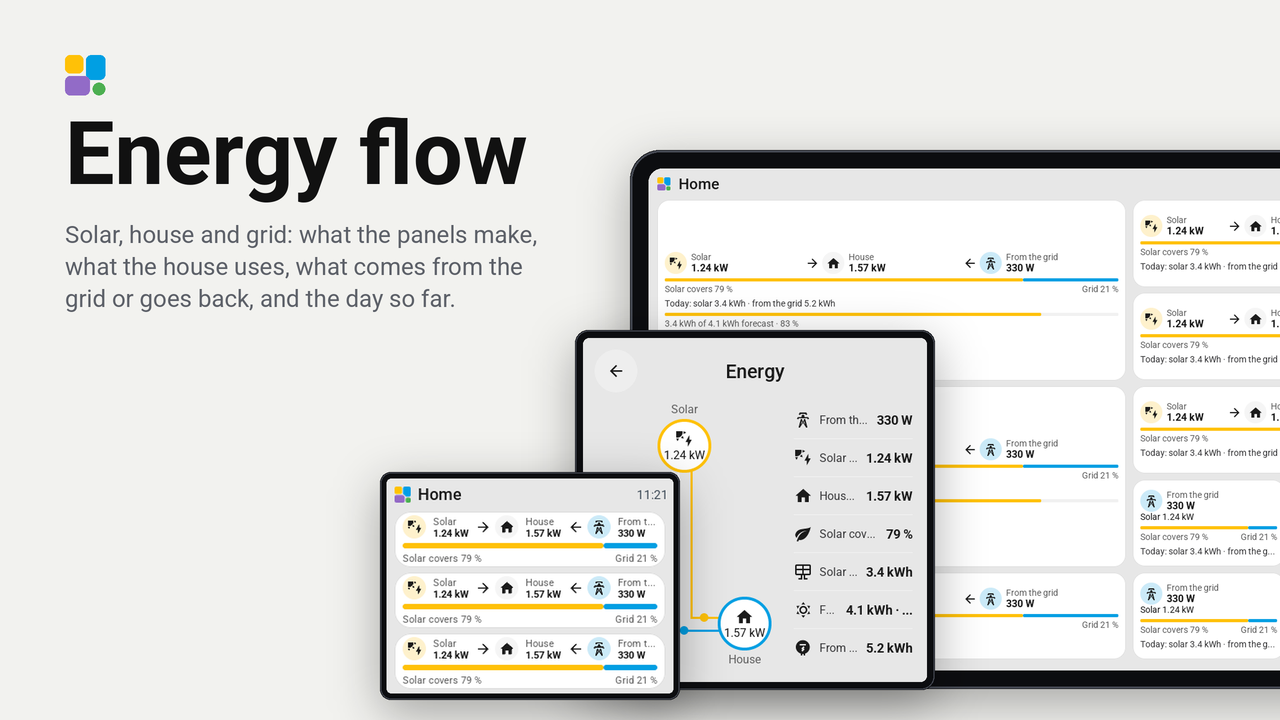
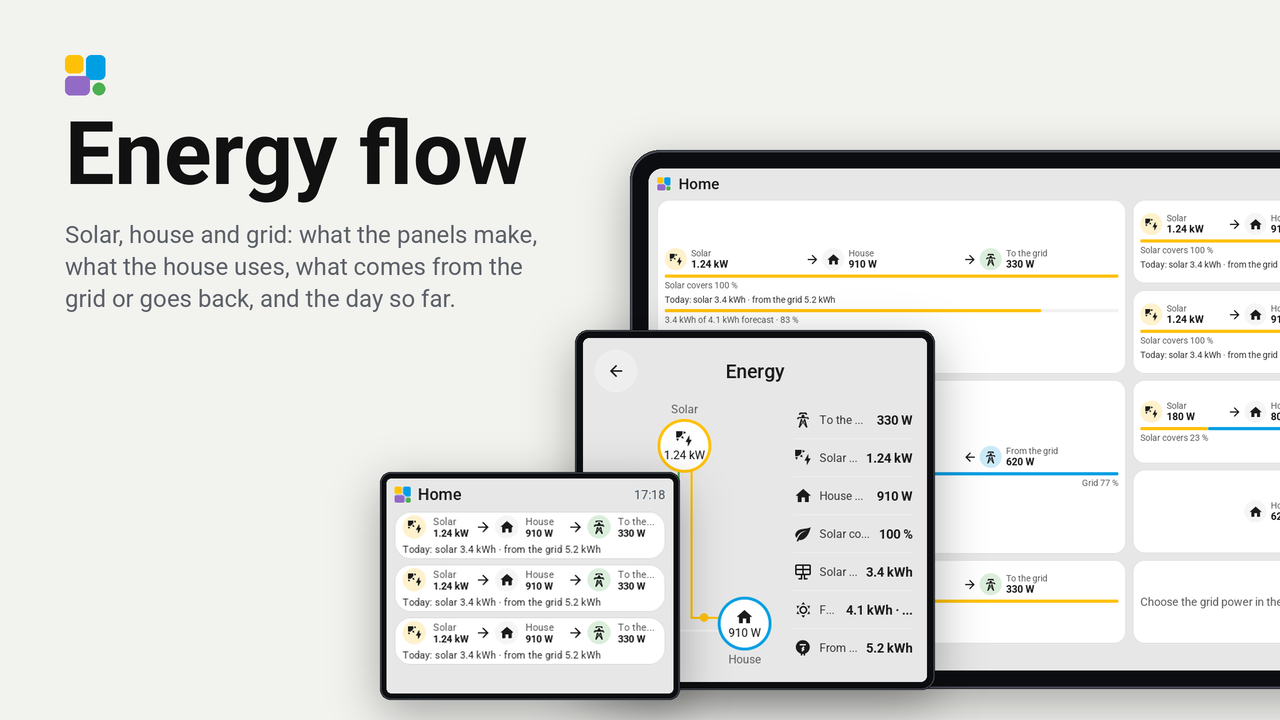
2.0.0: sensors as tile options (may stay empty, no rebuild), house power sensor, clearer notes
Fixes #1, fixes #3, fixes #6

diff --git a/components/energy_flow/energy_flow.cpp b/components/energy_flow/energy_flow.cpp
@@ -4,6 +4,7 @@
 #include <cstdio>
 #include <cstdlib>
 #include <cstring>
+#include <strings.h>
 #include <string>
 
 namespace esphome::energy_flow {
@@ -55,52 +56,84 @@ static void inside(lv_obj_t *circle, lv_obj_t *label, int w, int h, int dy = 0) 
 
 // ---- Reading the sensors ------------------------------------------------------------------------------------------
 
-static bool known(const std::string &s) { return !s.empty() && s != "unknown" && s != "unavailable" && s != "None"; }
+// The option ids, in the order of enum Source.
+static const char *const KEYS[SOURCES] = {"grid", "pv", "home", "pv_today", "coverage", "forecast", "grid_today"};
 
-float EnergyFlow::number(int index) const {
-  const text_sensor::TextSensor *s = index >= 0 && index < FIELD_COUNT ? fields_[index] : nullptr;
-  if (!s || !s->has_state() || !known(s->state)) return NAN;
+// A number of a state as Home Assistant sends it; NAN for "unknown", "unavailable" or anything else that is no number.
+static float number(const char *state) {
+  if (!state || !*state) return NAN;
   char *end = nullptr;
-  const float v = strtof(s->state.c_str(), &end);
-  return end == s->state.c_str() ? NAN : v;
+  const float v = strtof(state, &end);
+  return end == state || !std::isfinite(v) ? NAN : v;
 }
 
-const char *EnergyFlow::unit(int index) const {
-  const text_sensor::TextSensor *s = index >= 0 && index < FIELD_COUNT ? fields_[index] : nullptr;
-  return s && s->has_state() ? s->state.c_str() : "";
-}
+// A unit of energy (Wh, kWh, MWh) rather than of power.
+static bool energy_unit(const char *unit) { return strstr(unit, "Wh") || strstr(unit, "wh"); }
 
-// Power in W whatever the sensor's unit (W, kW, MW).
+// Power in W whatever the sensor's unit (W, kW, MW); NAN for a unit of energy.
 static float watts(float v, const char *unit) {
-  if (std::isnan(v)) return v;
-  if (strcmp(unit, "kW") == 0) return v * 1000.0f;
-  if (strcmp(unit, "MW") == 0) return v * 1000000.0f;
+  if (std::isnan(v) || energy_unit(unit)) return NAN;
+  if (unit[0] == 'k' || unit[0] == 'K') return v * 1000.0f;
+  if (unit[0] == 'M') return v * 1000000.0f;
   return v;
 }
 
 // Energy in kWh whatever the sensor's unit (Wh, kWh, MWh).
 static float kwh(float v, const char *unit) {
   if (std::isnan(v)) return v;
-  if (strcmp(unit, "Wh") == 0) return v / 1000.0f;
+  if (strcasecmp(unit, "Wh") == 0) return v / 1000.0f;
   if (strcmp(unit, "MWh") == 0) return v * 1000.0f;
   return v;
 }
 
-Reading EnergyFlow::read(bool invert) const {
+Values EnergyFlow::parse(JsonObjectConst data) {
+  Values out;
+  JsonObjectConst entities = data["entities"];
+  for (int i = 0; i < SOURCES; ++i) {
+    // An option nobody filled in is not there.
+    JsonObjectConst e = entities[KEYS[i]];
+    if (e.isNull()) continue;
+    const float v = number(e["state"] | "");
+    const char *unit = e["attributes"]["unit_of_measurement"] | "";
+    switch (i) {
+      case S_GRID:
+        out.grid_chosen = true;
+        out.grid_energy = energy_unit(unit);
+        out.value[i] = watts(v, unit);
+        break;
+      case S_PV:
+      case S_HOME:
+        out.value[i] = watts(v, unit);
+        break;
+      case S_COVERAGE:
+        out.value[i] = v;
+        break;
+      default:
+        out.value[i] = kwh(v, unit);
+    }
+  }
+  return out;
+}
+
+Reading EnergyFlow::read(const Values &v, bool invert) {
   Reading r;
-  r.grid = watts(number(F_GRID), unit(F_GRID_UNIT));
+  r.grid = v.value[S_GRID];
   r.have_grid = !std::isnan(r.grid);
+  r.note = r.have_grid ? nullptr : !v.grid_chosen ? "choose" : v.grid_energy ? "not_power" : "no_value";
   if (r.have_grid && invert) r.grid = -r.grid;
-  r.pv = watts(number(F_PV), unit(F_PV_UNIT));
+  r.pv = v.value[S_PV];
   if (!std::isnan(r.pv)) r.pv = std::max(0.0f, r.pv);
-  if (r.have_grid) r.home = std::max(0.0f, r.grid + (std::isnan(r.pv) ? 0.0f : r.pv));
-  r.coverage = number(F_COVERAGE);
+  // The house's own sensor where there is one: it also counts what a battery gives.
+  r.home = v.value[S_HOME];
+  if (!std::isnan(r.home)) r.home = std::max(0.0f, r.home);
+  else if (r.have_grid) r.home = std::max(0.0f, r.grid + (std::isnan(r.pv) ? 0.0f : r.pv));
+  r.coverage = v.value[S_COVERAGE];
   if (std::isnan(r.coverage) && !std::isnan(r.pv) && !std::isnan(r.home))
     r.coverage = r.home > FLOWING ? 100.0f * std::min(r.pv, r.home) / r.home : (r.pv > FLOWING ? 100.0f : 0.0f);
   if (!std::isnan(r.coverage)) r.coverage = std::max(0.0f, std::min(100.0f, r.coverage));
-  r.pv_today = kwh(number(F_PV_TODAY), unit(F_PV_TODAY_UNIT));
-  r.forecast = kwh(number(F_FORECAST), unit(F_FORECAST_UNIT));
-  r.grid_today = kwh(number(F_GRID_TODAY), unit(F_GRID_TODAY_UNIT));
+  r.pv_today = v.value[S_PV_TODAY];
+  r.forecast = v.value[S_FORECAST];
+  r.grid_today = v.value[S_GRID_TODAY];
   return r;
 }
 
@@ -218,7 +251,7 @@ class FlowView {
                           fc_track_, fc_fill_, fc_label_})
         show(o, false);
       show(note_, true);
-      ui::set_text(note_, plugin_->text("choose"));
+      ui::set_text(note_, plugin_->text(r.note));
       ui::set_color(note_, theme::MUTED);
       shown_ = -1;
       return;
@@ -475,12 +508,14 @@ class FlowTile : public tessera::Tile {
     invert_ = c.options["invert"] | false;
     view_.create(c.parent, c.width, c.height, c.options["today"] | true, false);
   }
-  void on_tick(uint32_t) override { view_.paint(plugin_->read(invert_)); }
+  void on_state(JsonObjectConst data) override { values_ = EnergyFlow::parse(data); }
+  void on_tick(uint32_t) override { view_.paint(EnergyFlow::read(values_, invert_)); }
   void on_theme() override {
     view_.on_theme();
     on_tick(0);
   }
   void on_tap() override {
+    plugin_->card_values = values_;
     plugin_->card_invert = invert_;
     tessera::open_card(plugin_->plugin_id(), "details", "", tile_);
   }
@@ -488,6 +523,7 @@ class FlowTile : public tessera::Tile {
  private:
   const EnergyFlow *plugin_;
   FlowView view_;
+  Values values_;
   int tile_ = -1;
   bool invert_ = false;
 };
@@ -513,6 +549,7 @@ class DetailsCard : public tessera::Card {
   void open(const tessera::CardContext &c) override {
     width_ = c.width;
     height_ = c.height;
+    values_ = plugin_->card_values;
     invert_ = plugin_->card_invert;
     const bool large = ui::large();
     line_w_ = std::max(2, ui::px(large ? 3 : 2));
@@ -564,12 +601,17 @@ class DetailsCard : public tessera::Card {
   }
 
   void on_tick(uint32_t) override {
-    const Reading r = plugin_->read(invert_);
-    ui::set_text(note_, r.have_grid ? "" : plugin_->text("choose"));
+    const Reading r = EnergyFlow::read(values_, invert_);
+    ui::set_text(note_, r.note ? plugin_->text(r.note) : "");
     paint_diagram(r);
     paint_list(r);
   }
 
+  // The tile it was opened from got new values.
+  void on_state(JsonObjectConst data) override {
+    values_ = EnergyFlow::parse(data);
+    on_tick(0);
+  }
   void on_theme() override { on_tick(0); }
 
  private:
@@ -768,6 +810,7 @@ class DetailsCard : public tessera::Card {
   int dot_ = 0, label_h_ = 0, value_h_ = 0, upper_y_ = 0, lower_y_ = 0, rows_shown_ = -1;
   bool show_extra_ = true;
   bool invert_ = false;
+  Values values_;
   Node nodes_[3];
   lv_obj_t *lines_[LINES]{}, *dots_[DOTS]{};
   Row rows_[MAX_ROWS];

diff --git a/components/energy_flow/energy_flow.h b/components/energy_flow/energy_flow.h
@@ -3,50 +3,50 @@
 #include <cstdint>
 #include <string>
 #include "esphome/core/component.h"
-#include "esphome/components/text_sensor/text_sensor.h"
 #include "esphome/components/smart_display/plugin_api.h"
 
 namespace esphome::energy_flow {
 
-// The values plugin.yaml reads, in the order of FIELDS in __init__.py.
-enum Field : uint8_t {
-  F_GRID, F_GRID_UNIT, F_PV, F_PV_UNIT, F_PV_TODAY, F_PV_TODAY_UNIT, F_COVERAGE, F_FORECAST, F_FORECAST_UNIT,
-  F_GRID_TODAY, F_GRID_TODAY_UNIT, FIELD_COUNT
+// The sensors a tile reads: its options of kind entity, which the app sends under `entities` with these ids.
+enum Source : uint8_t { S_GRID, S_PV, S_HOME, S_PV_TODAY, S_COVERAGE, S_FORECAST, S_GRID_TODAY, SOURCES };
+
+// What the app sent, each value in its own unit already turned into W (power), kWh (energy) or % (coverage); NAN for
+// a sensor that is not chosen or has no number.
+struct Values {
+  bool grid_chosen = false;  // a grid sensor is chosen in the tile's settings
+  bool grid_energy = false;  // ... but it counts energy (Wh, kWh), not power
+  float value[SOURCES] = {NAN, NAN, NAN, NAN, NAN, NAN, NAN};
 };
 
-// What the tile and the card show, worked out from the sensors. Power in W, energy in kWh; NAN for not known.
+// What the tile and the card show, worked out from the values. Power in W, energy in kWh; NAN for not known.
 struct Reading {
-  bool have_grid = false;  // the grid sensor has a number
-  float grid = NAN;        // + from the grid, - back to it
-  float pv = NAN;          // what the panels make now
-  float home = NAN;        // what the house uses now: grid + pv
-  float coverage = NAN;    // the share of the house's use the panels cover now, 0 to 100
+  bool have_grid = false;      // the grid sensor has a number
+  const char *note = "choose";  // without it: the text key that says why
+  float grid = NAN;            // + from the grid, - back to it
+  float pv = NAN;              // what the panels make now
+  float home = NAN;            // what the house uses now: its own sensor, else grid + pv
+  float coverage = NAN;        // the share of the house's use the panels cover now, 0 to 100
   float pv_today = NAN, forecast = NAN, grid_today = NAN;
 };
 
-// The plugin: a tile ("flow") and a card ("details"). It holds the text sensors plugin.yaml reads.
+// The plugin: a tile ("flow") and a card ("details").
 class EnergyFlow : public Component, public tessera::Plugin {
  public:
   void setup() override;
   float get_setup_priority() const override { return setup_priority::DATA; }
 
-  void set_field(int index, text_sensor::TextSensor *s) {
-    if (index >= 0 && index < FIELD_COUNT) fields_[index] = s;
-  }
+  // The values of a tile's data (a tile's or its card's on_state).
+  static Values parse(JsonObjectConst data);
   // Everything at once; `invert` for a meter that counts what goes to the grid as positive.
-  Reading read(bool invert) const;
+  static Reading read(const Values &v, bool invert);
 
   // "352 W", "1,24 kW", "3,4 kWh" in the screen's decimal sign.
   std::string power_text(float watts) const;
   std::string energy_text(float kwh) const;
 
-  // The tile's "invert" for the card it opens.
+  // What the tile tapped last had, for the card it opens.
+  mutable Values card_values;
   mutable bool card_invert = false;
-
- protected:
-  float number(int index) const;
-  const char *unit(int index) const;
-  text_sensor::TextSensor *fields_[FIELD_COUNT]{};
 };
 
 }  // namespace esphome::energy_flow

diff --git a/components/energy_flow/__init__.py b/components/energy_flow/__init__.py
@@ -1,34 +1,23 @@
 """Energy flow: solar, house and grid on a tile, and a card with the day so far.
 
-plugin.yaml reads every value from Home Assistant as a text sensor; this component hands them to the C++ by the index
-of FIELDS, which energy_flow.h numbers the same way. register_plugin() takes the id, version, tile memory and the
-screen's texts from the manifest and translations/ beside this folder.
+The sensors are the tile's options of kind entity: the app sends their states with the tile's data, so the component
+needs nothing from plugin.yaml. register_plugin() takes the id, version, tile memory and the screen's texts from the
+manifest and translations/ beside this folder.
 """
 import esphome.codegen as cg
 import esphome.config_validation as cv
-from esphome.components import smart_display, text_sensor
+from esphome.components import smart_display
 from esphome.const import CONF_ID
 
 DEPENDENCIES = ["smart_display"]
-AUTO_LOAD = ["text_sensor"]
-
-# The order is the C++'s (enum Field in energy_flow.h); never reorder one without the other.
-FIELDS = ['grid', 'grid_unit', 'pv', 'pv_unit', 'pv_today', 'pv_today_unit', 'coverage', 'forecast', 'forecast_unit',
-          'grid_today', 'grid_today_unit']
 
 energy_flow_ns = cg.esphome_ns.namespace("energy_flow")
 EnergyFlow = energy_flow_ns.class_("EnergyFlow", cg.Component)
 
-CONFIG_SCHEMA = cv.Schema(
-    {cv.GenerateID(): cv.declare_id(EnergyFlow)}
-    | {cv.Optional(name): cv.use_id(text_sensor.TextSensor) for name in FIELDS}
-).extend(cv.COMPONENT_SCHEMA)
+CONFIG_SCHEMA = cv.Schema({cv.GenerateID(): cv.declare_id(EnergyFlow)}).extend(cv.COMPONENT_SCHEMA)
 
 
 async def to_code(config):
     var = cg.new_Pvariable(config[CONF_ID])
     await cg.register_component(var, config)
     await smart_display.register_plugin(var, __file__)
-    for index, name in enumerate(FIELDS):
-        if name in config:
-            cg.add(var.set_field(index, await cg.get_variable(config[name])))

diff --git a/README.md b/README.md
@@ -18,18 +18,23 @@ a row of its own (grid, solar, house, coverage, solar today, forecast with how m
 ## Set up
 
 1. In Tessera, open **Plugins**, **Add with a link**, and paste the link of this repository. Add the plugin to a
-   screen.
-2. In the plugin's details on the screen's Plugins tab, under **When building**, choose the sensors:
-   - **Grid power** (needed): your meter's power in W or kW, positive while power comes from the grid and negative
-     while it goes back. A meter that counts the other way round: switch on **Invert the grid** on the tile.
+   screen and build it once.
+2. In **Layout**, place the **Energy** tile and choose its sensors in the tile's settings:
+   - **Grid power** (needed): your meter's power now in W or kW, positive while power comes from the grid and
+     negative while it goes back. A meter that counts the other way round: switch on **Invert the grid**. A kWh
+     counter does not work here; the tile says so.
    - **Solar power**: what the panels make now.
+   - **House power**: what the house uses now, if you have such a sensor. Without it the house is grid + solar.
+   - **Solar coverage**: a sensor in % if you have one; without it the share is worked out from solar and the house.
    - **Solar today**, **Grid today**: today's energy in kWh, for the day so far.
-   - **Solar coverage**: a sensor in % if you have one; without it the share is worked out from solar and grid.
    - **Forecast today**: today's solar forecast in kWh (Forecast.Solar, Solcast).
-   Leave out what you do not have. **Save and build**.
-3. In **Layout**, place the **Energy** tile.
+
+   Leave empty what you do not have. Another choice needs no new build: the tile shows it at once.
 
 ## Good to know
 
-- The house's use is grid + solar. A battery is not part of it yet.
+- Without a **House power** sensor the house's use is grid + solar, so a battery is not part of it. With one (most
+  inverters with a battery have such a sensor) the house and the solar coverage count the battery too.
 - W and kW, Wh and kWh are both understood: the plugin reads each sensor's unit.
+- From 2.0.0 the sensors are chosen per tile, not under **When building**: after the update, choose them again in
+  the tile's settings.

diff --git a/CHANGELOG.md b/CHANGELOG.md
@@ -1,5 +1,12 @@
 # Changelog
 
+## 2.0.0
+- The sensors are chosen in the tile's settings instead of when building, and every one but the grid's power may stay
+  empty. Another choice shows at once, without a new build. After the update, choose them again on each tile.
+- A sensor for the house's power: with it the house and the solar coverage count a battery too.
+- The tile says why it shows nothing: no grid sensor chosen, no value from it, or a kWh counter chosen as the grid
+  power.
+
 ## 1.1.4
 - On a small card the rings choose a font and icon that fit, and leave out the day where it does not fit.
 - Each value in the list is as wide as it is; the names take the rest, smaller on a narrow list.
